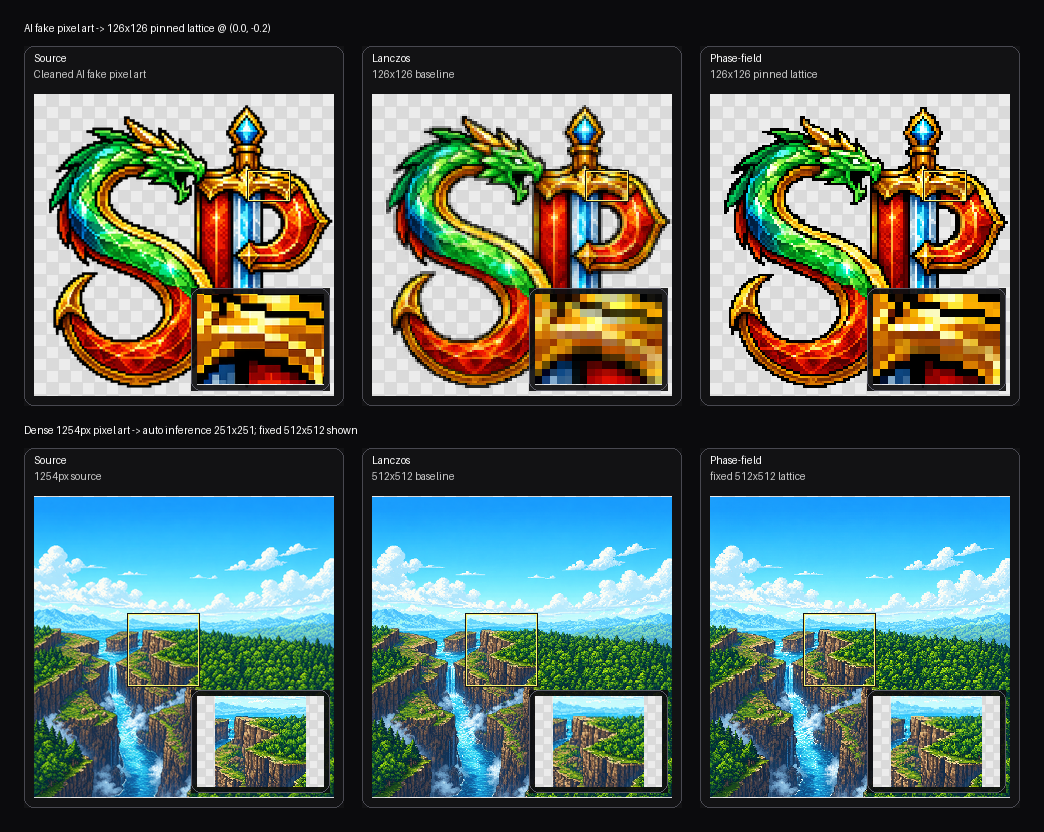
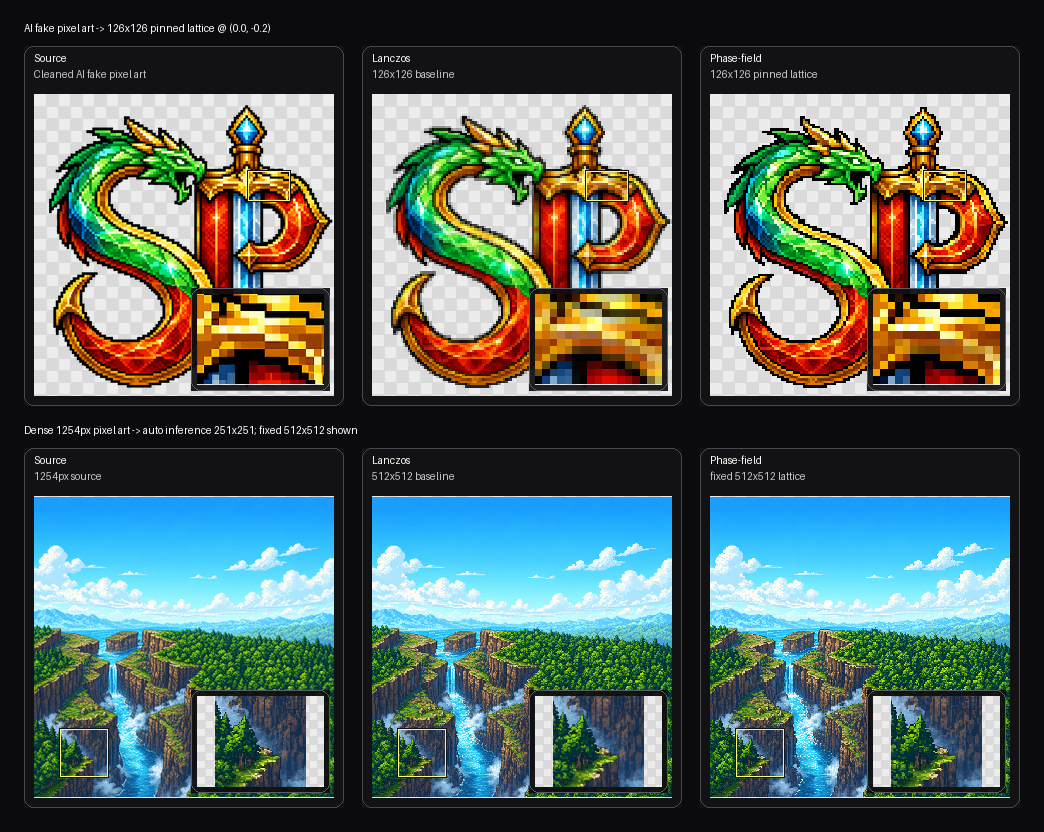
Tighten dense landscape inset

diff --git a/scripts/generate_readme_previews.py b/scripts/generate_readme_previews.py
@@ -78,7 +78,7 @@ def _parse_args() -> argparse.Namespace:
         "--dense-focus-cell-bbox",
         nargs=4,
         type=int,
-        default=(160, 200, 280, 320),
+        default=(44, 396, 124, 476),
         metavar=("X0", "Y0", "X1", "Y1"),
         help="Focus crop bounds in output-grid cell coordinates for the dense landscape row.",
     )
